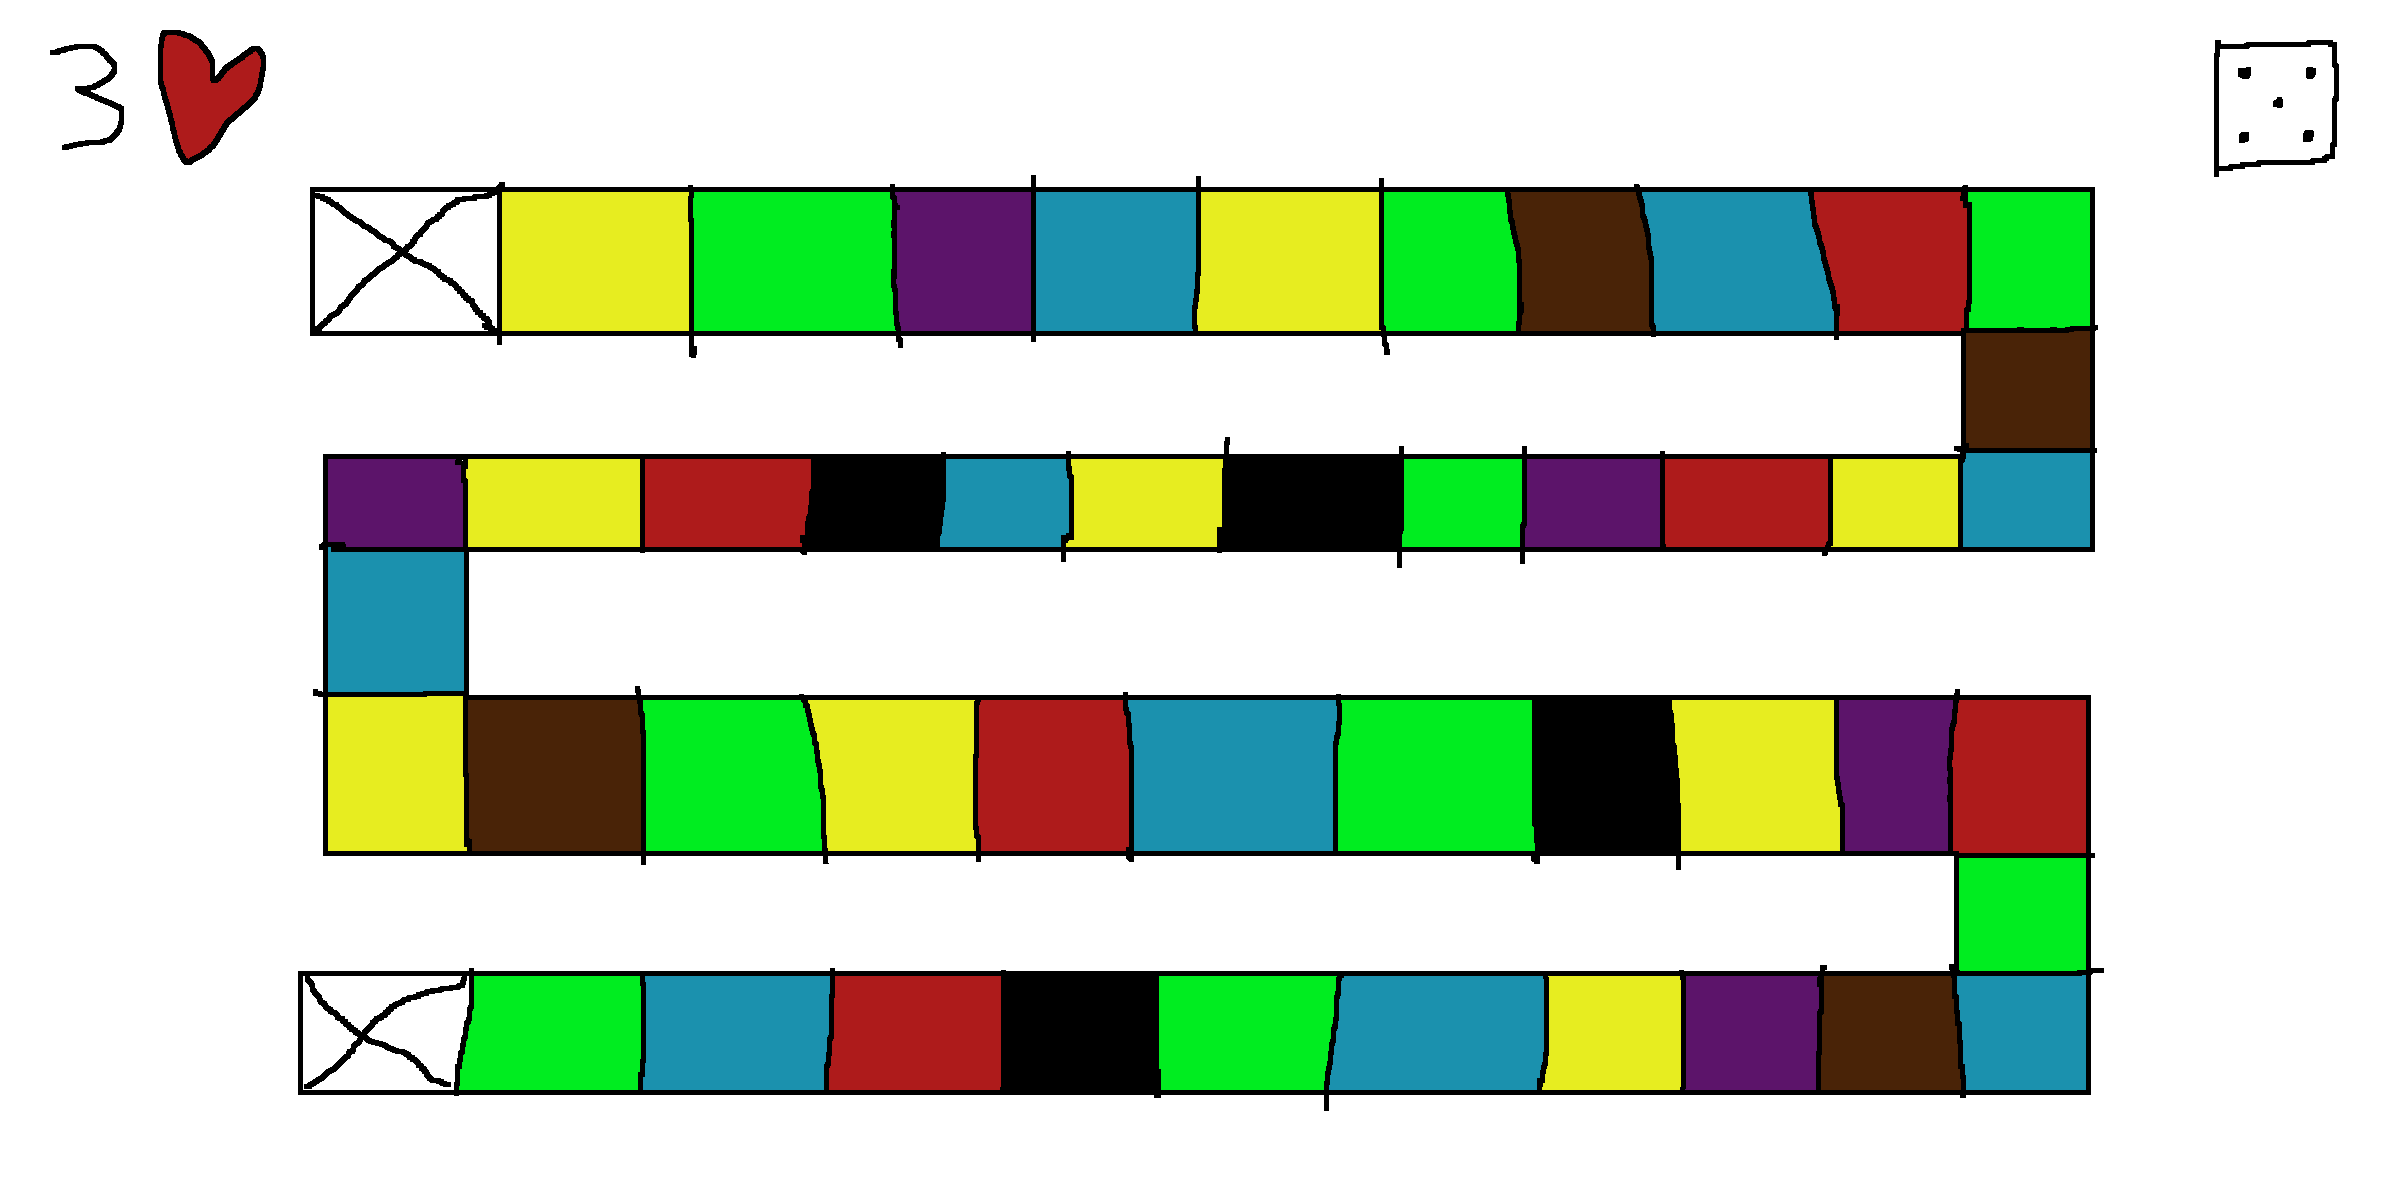
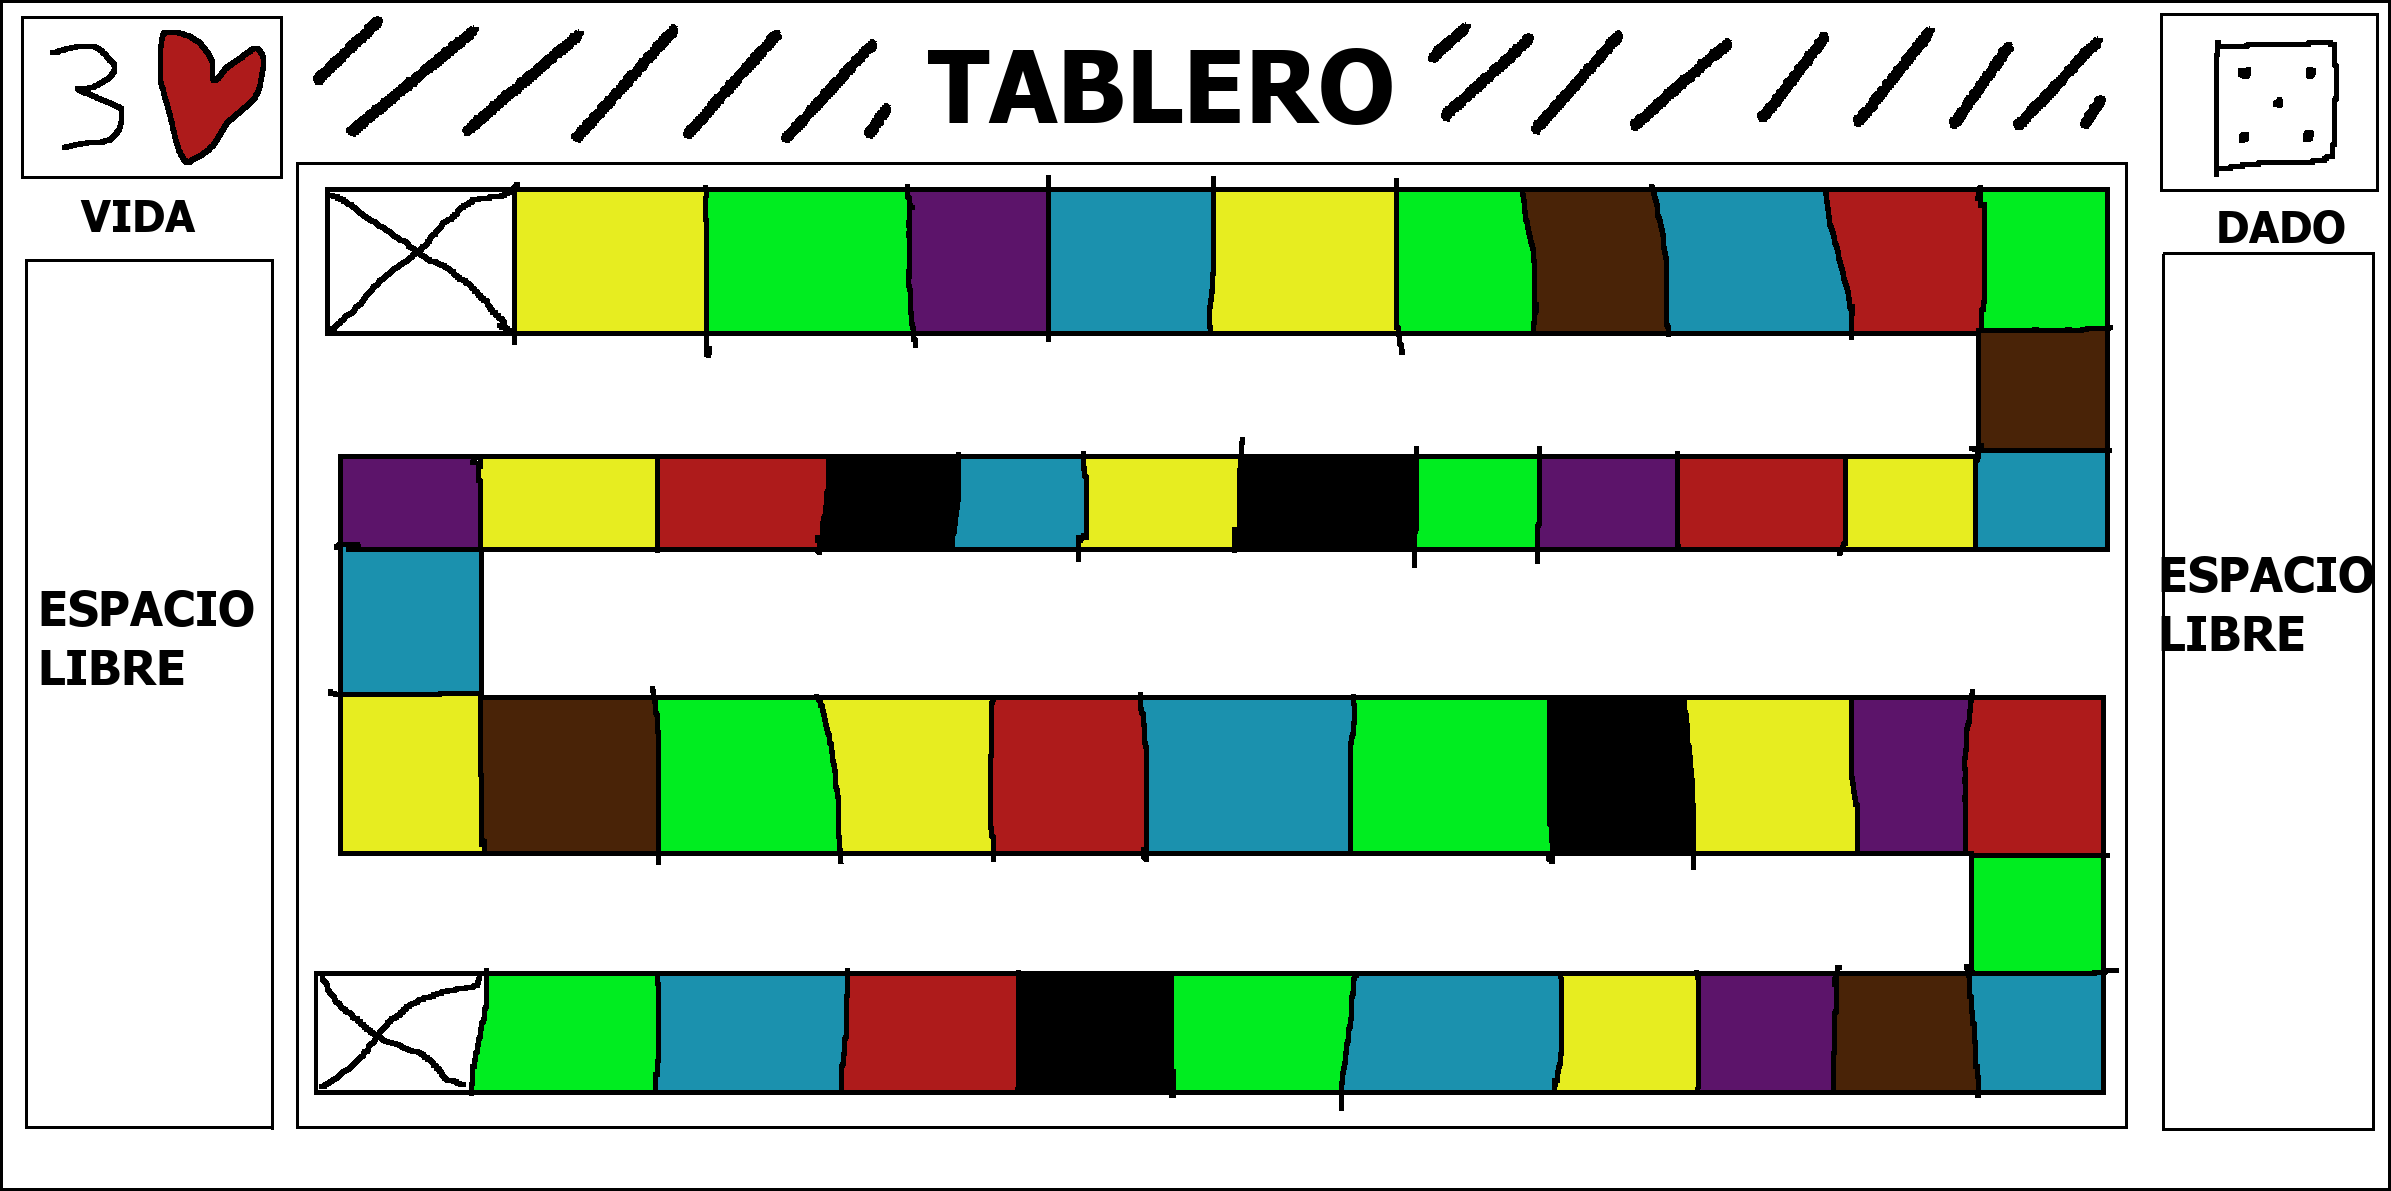
Cambios Menores y Esquema de Diseño Ahora el trablero abstracto tiene marcado las asignaciones de espacios (espacio libre = sin decidir). Retoques en CSS y se han quitado algunas advertencias y notificaciones (si quieres las notificaciones de "TODO" avísame para que no las toque).

diff --git a/código/prPFentertainment/src/main/resources/static/estilos/principal.css b/código/prPFentertainment/src/main/resources/static/estilos/principal.css
@@ -31,7 +31,7 @@ header > div > img {
 	top: 10px;
 	right: 10px;
 	width: 28px;
-	margin: 10px 20px 10px 5px;
+	margin: 10px;
 	padding: 0;
 	z-index: 100;
 }
@@ -46,5 +46,5 @@ header > div > img {
 	width: auto;
 	max-width: 80vw;
 	max-height: 78vh;
-	margin: 10px auto;
+	margin: 25px auto;
 }

diff --git a/código/prPFentertainment/src/main/java/Modelo/Casilla.java b/código/prPFentertainment/src/main/java/Modelo/Casilla.java
@@ -32,17 +32,17 @@ public class Casilla {
 	public int getPosicion() {
 		return posicion;
 	}
-	
+
 	public Dificultad getDificultad() {
 		return dificultad;
 	}
 
 	public Pregunta getPregunta() {
 		/*abrir fichero de la dificultad de la casilla y generar pregunta aleatoria de la categoria de la casilla */
-		Pregunta pregunta =  null;
-		
-		
-		
+		// Pregunta pregunta = null;
+
+
+
 		return pregunta;
 	}
 
@@ -53,5 +53,5 @@ public class Casilla {
 				.add("Posicion=" + posicion)
 				.toString();
 	}
-	
+
 }
